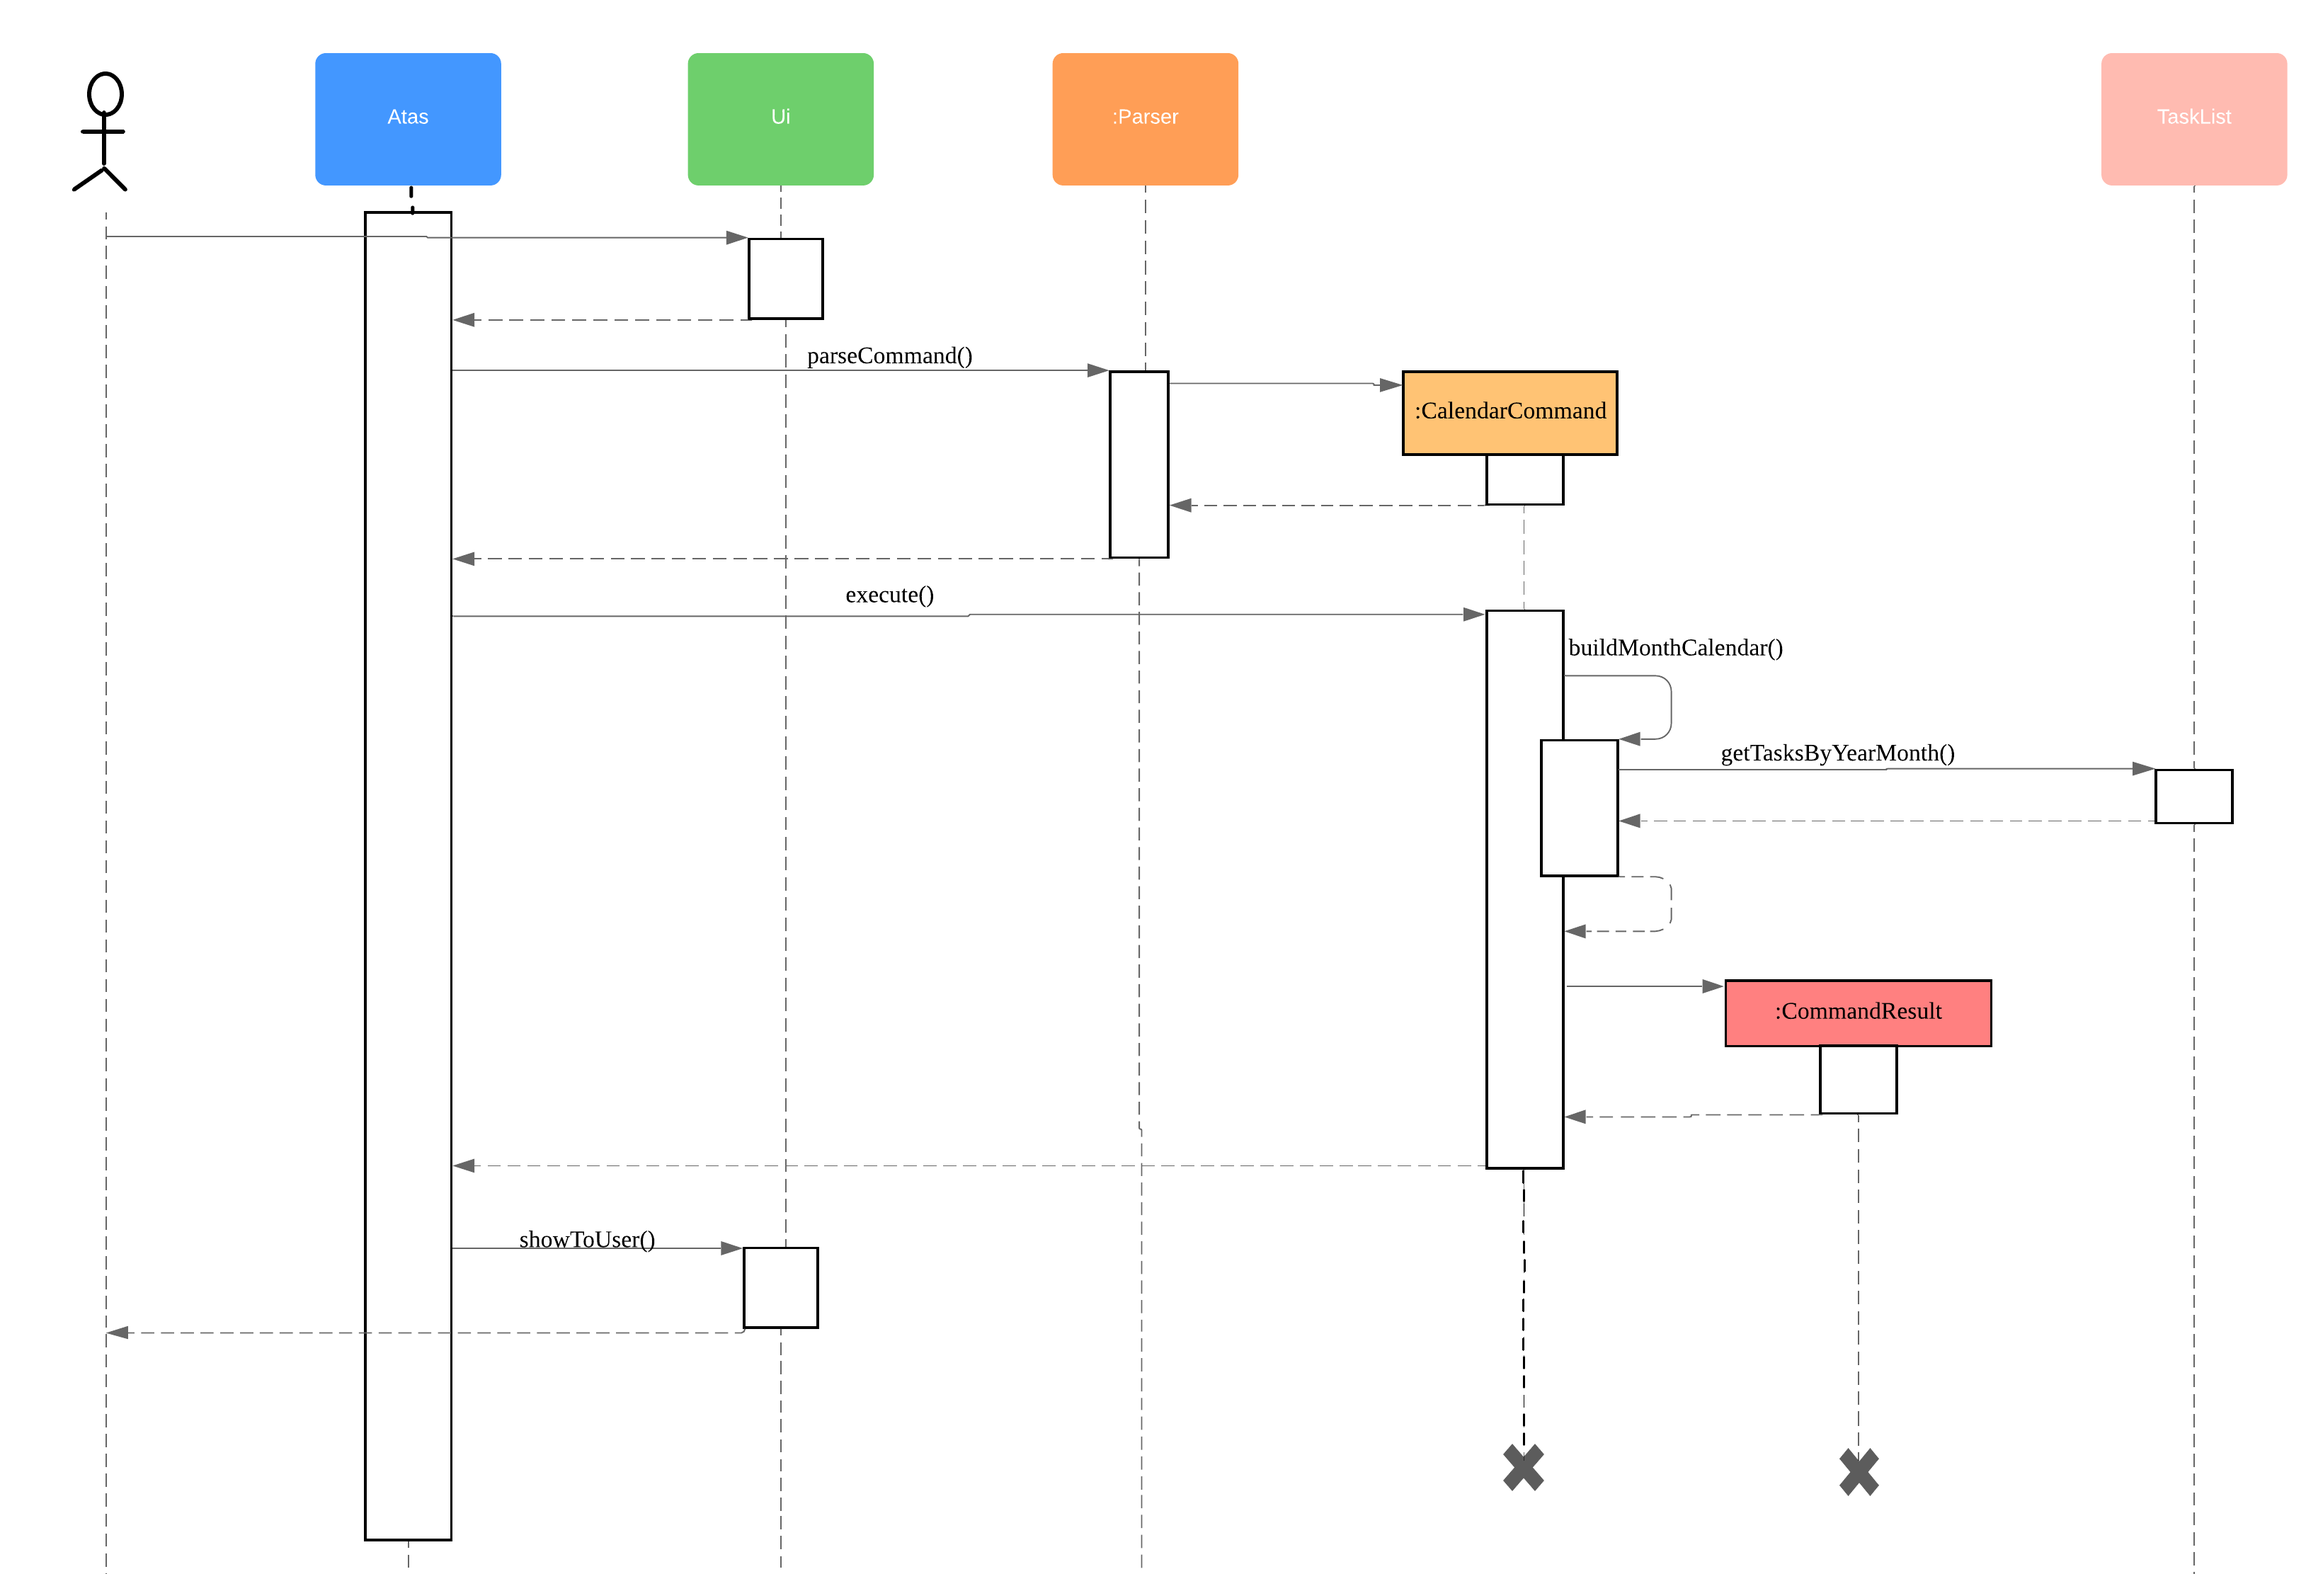
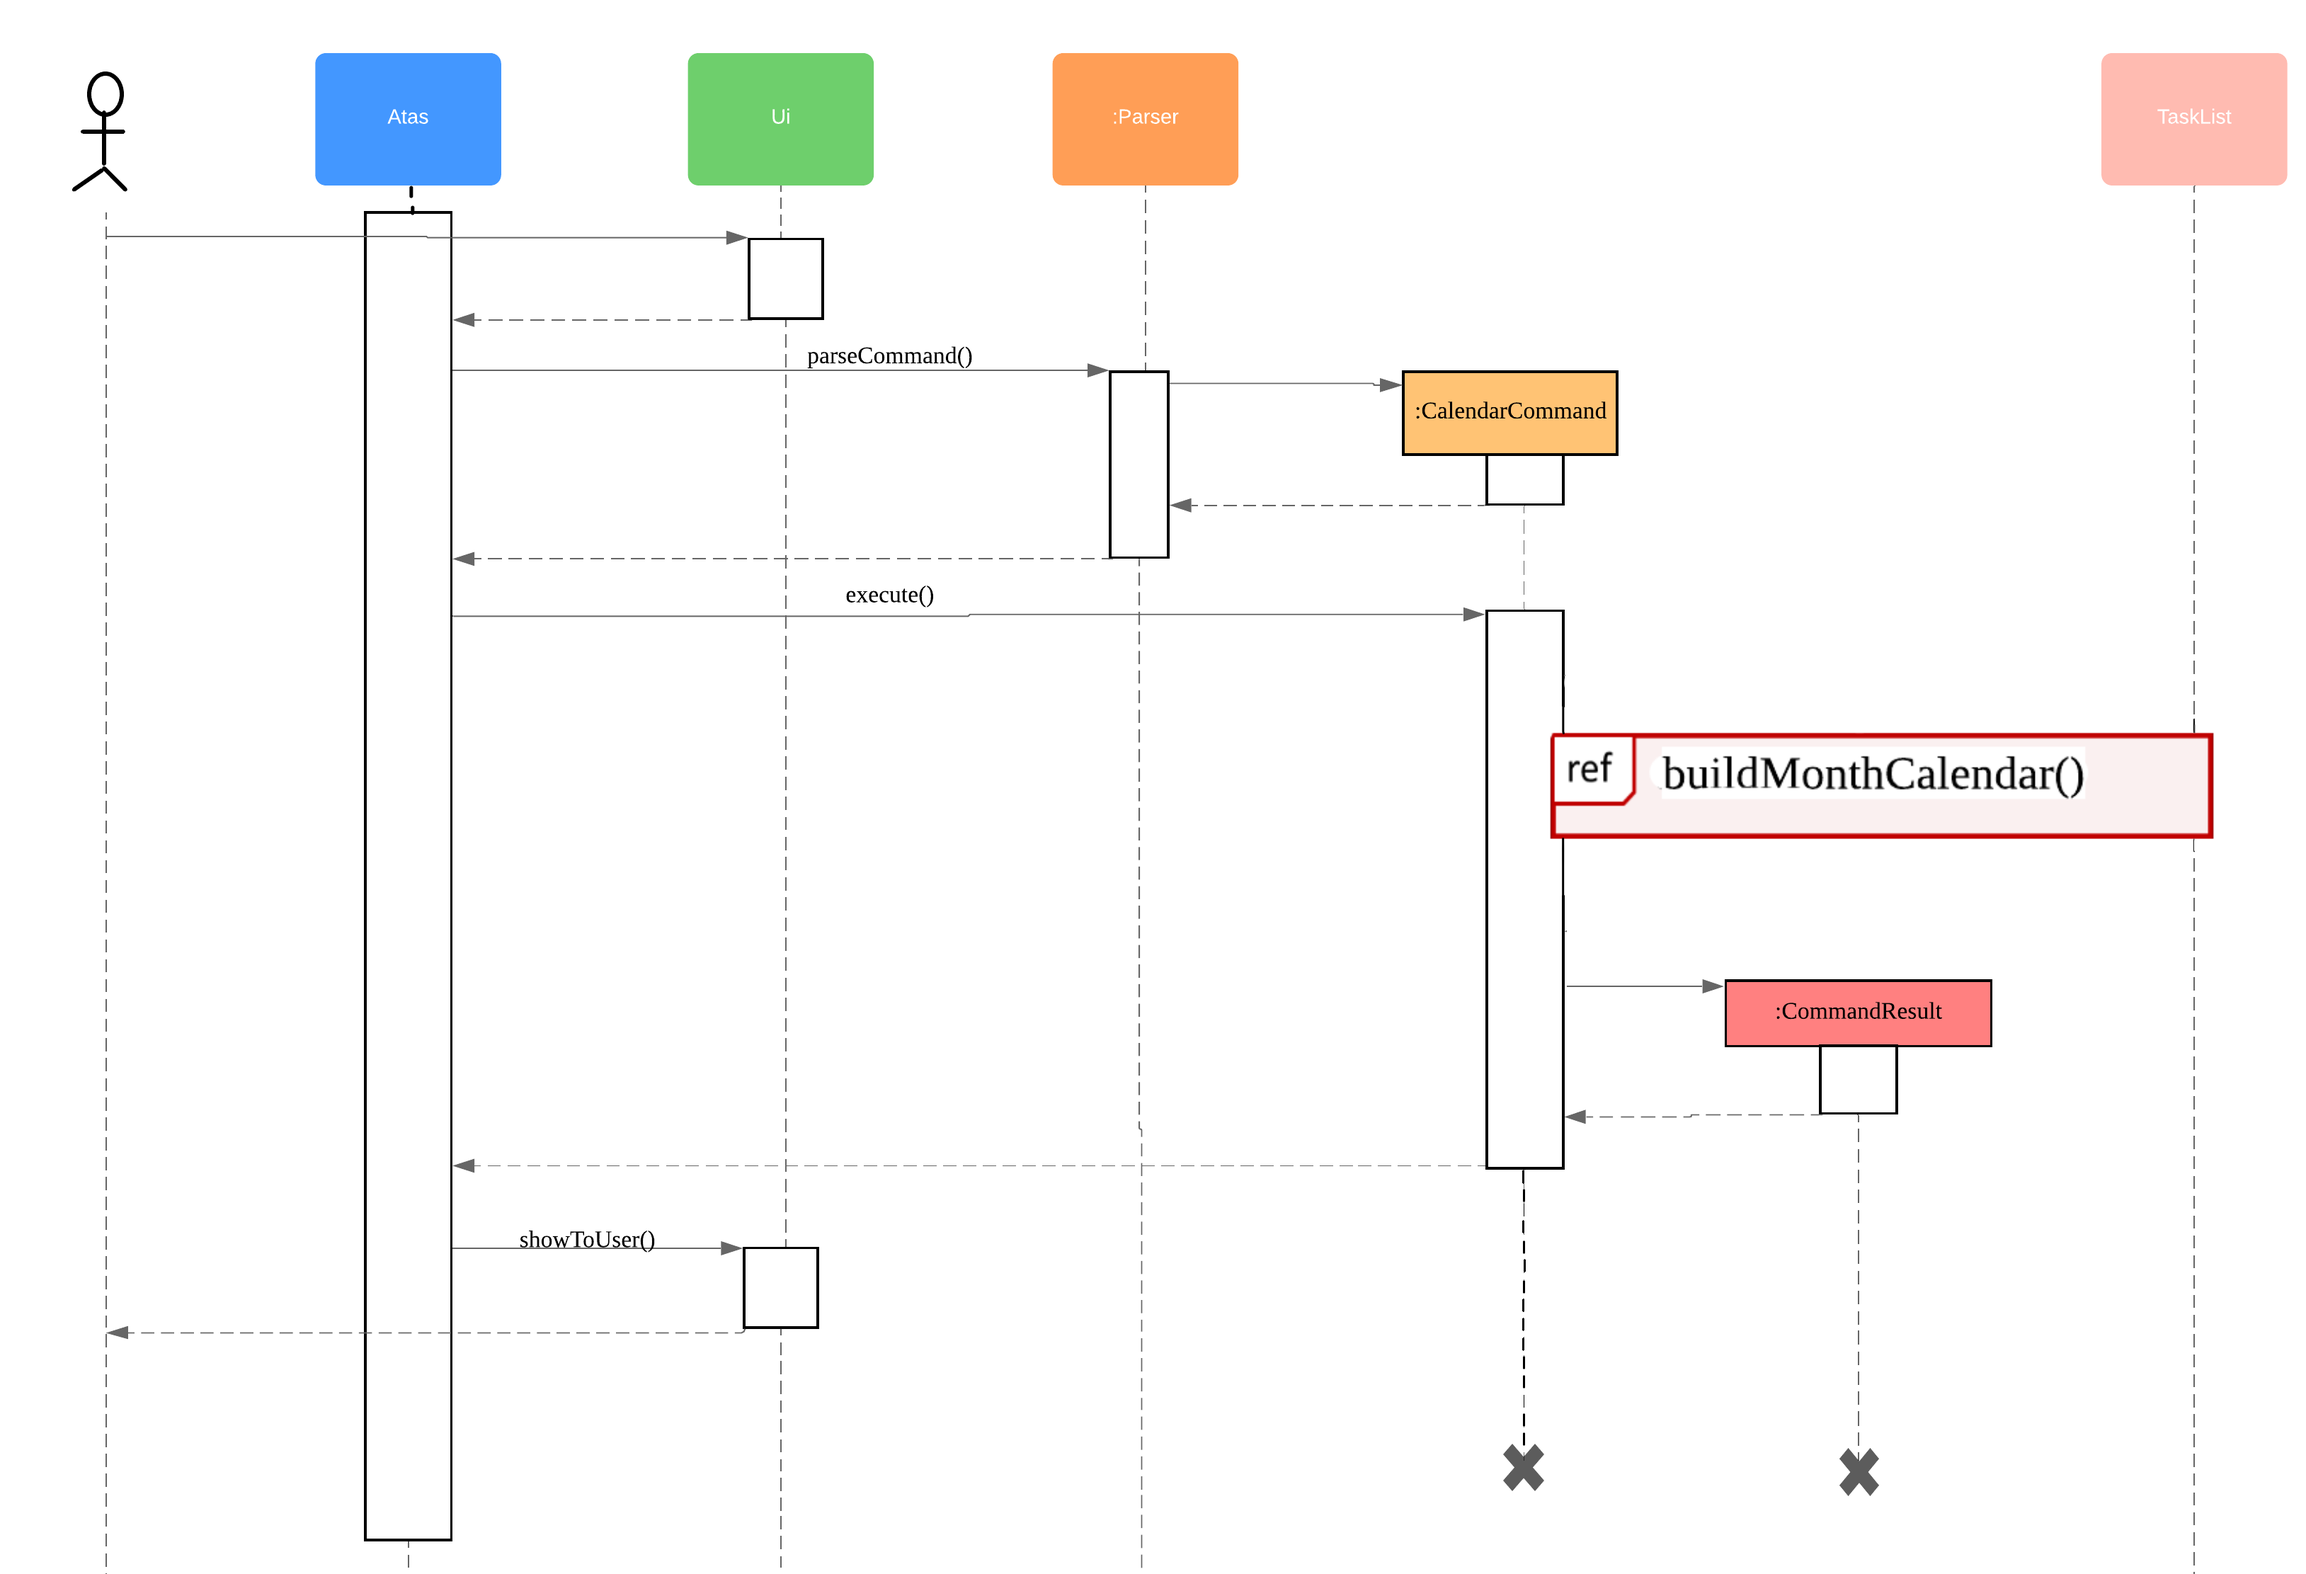
Corrected DG diagrams and add future enhancements

Changed region(s): [[0.6512, 0.4656, 0.9613, 0.5587], [0.6822, 0.4035, 0.7753, 0.4345]]

diff --git a/docs/DeveloperGuide.md b/docs/DeveloperGuide.md
@@ -32,6 +32,7 @@ Table of Contents
 	- [View Calendar feature](#36-view-calendar-feature)
 		- [Implementation](#361-implementation)
 		- [Design Considerations](#362-design-considerations)
+		- [Future Enhancements](#363-future-enhancements)
 	- [Storage](#37-storage)
 		- [Implementation](#371-implementation)
 			- [Saving the current state of **ATAS** with `Storage#save()`:](#372-saving-the-current-state-of-atas-with-storagesave)
@@ -548,9 +549,9 @@ The `CalendarCommand` class extends the `Command` class with methods to implemen
 
 ![Interaction of CalendarCommand and the various major components](images/calendar-diagram.png)
 
-In particular, the diagram below shows the explicit execution flow that `CalendarCommand` takes.
+In particular, the diagram below shows the explicit execution flow that `buildMonthCalendar()` method of the `CalendarCommand` takes.
 
-![Explicit execution flow of CalendarCommand](images/addMonthlyCalendar_v2.png)
+![Explicit execution flow of CalendarCommand](images/addMonthlyCalendar.png)
 
 Given below is an example usage of the `calendar` command. The step by step execution is shown in the sequence diagram above.
 
@@ -585,7 +586,7 @@ The method manages all pre-processing to get the details needed to formulate the
 
 > **Note**
 >
-> Since an `Event` can be set to repeat, but is stored within the `TaskList` as a single `Task` object, duplicating a repeat `Event` allows us to obtain the full list of `Tasks` that might occur within the month as separate Task. The decision is further explained in the design considerations subsection.
+> Since an `Event` can be set to repeat, but is stored within the `TaskList` as a single `Task` object, duplicating a repeat `Event` allows us to obtain the full list of `Tasks` that might occur within the month as separate Task. The decision is further explained in the [design considerations](#362-design-considerations) subsection.
 
 **Step 4**  
 The `CommandResult` object is subsequently passed to `Ui` component which obtains and prints the `Calendar` view by calling `showToUser()` method of the `Ui` component.
@@ -595,10 +596,10 @@ The `CommandResult` object is subsequently passed to `Ui` component which obtain
 -   Duplicating `Task` objects instead of keeping the `RepeatEvent` as a single entity like how it is stored in the `TaskList`.
 
     -   Rationale:  
-        By duplicating the `RepeatEvent`, it allows better abstraction by removing the need to constantly differentiate between a normal `Task` and a repeating `Task` during the construction of the final Calendar View. The current implementation allows the `addCalendarBody()` method to obtain all possible `Task` objects, with each `RepeatEvent` being stored as a separate `Task` within the `ArrayList` of `Task` objects. Each `Task` can be removed from the `ArrayList` after it has been printed which makes the task simpler.
+        By duplicating the `RepeatEvent`, it allows better abstraction by removing the need to constantly differentiate between a normal `Task` and a repeating `Task` during the construction of the final Calendar View. The current implementation allows the `addCalendarBody()` method to obtain all possible `Task` objects, with each `RepeatEvent` being stored as a separate `Task` within the `ArrayList` of `Task` objects. Each `Task` can be removed from the `ArrayList` after it has been printed which makes the task simpler. 
 
     -   Alternatives considered:  
-        Allowing `TaskList` to accept `Task` with duplicated details. However, this will in turn further complicate design when performing other features that deal with a singular `Task` such as `delete`, `search`, `done`.
+        Allowing `TaskList` to accept `Task` with duplicated details. However, this will in turn further complicate design when performing other features that deal with a singular `Task` such as `delete`, `search`, `done`. (See [Section 3.4.3, RepeatEvent design considerations](#343-design-considerations))
 
 -   Truncation of `Task` details instead of extending column size
 
@@ -617,6 +618,12 @@ The `CommandResult` object is subsequently passed to `Ui` component which obtain
 
     -   Alternative Considered:  
         Expanding number of `Calendar` rows. This will require the need to increase the number of `Calendar` columns to preserve the integrity of a traditional calendar view. However, this also is infeasible as our goal is to keep the calendar compact such that it does not need to fill the screen.
+        
+#### 3.6.3. Future Enhancements
+
+- Future enhancement to the Calendar feature of **ATAS** is inclusive but not limited to the following:
+
+    - Allowing users the ability to dictate their dimensions of the calendar view so that they are able to customise the size to their preference. Current implementation involves hardcoded dimensions that might not meet every users' requirements. 
 
 ### 3.7. Storage
 #### 3.7.1. Implementation
